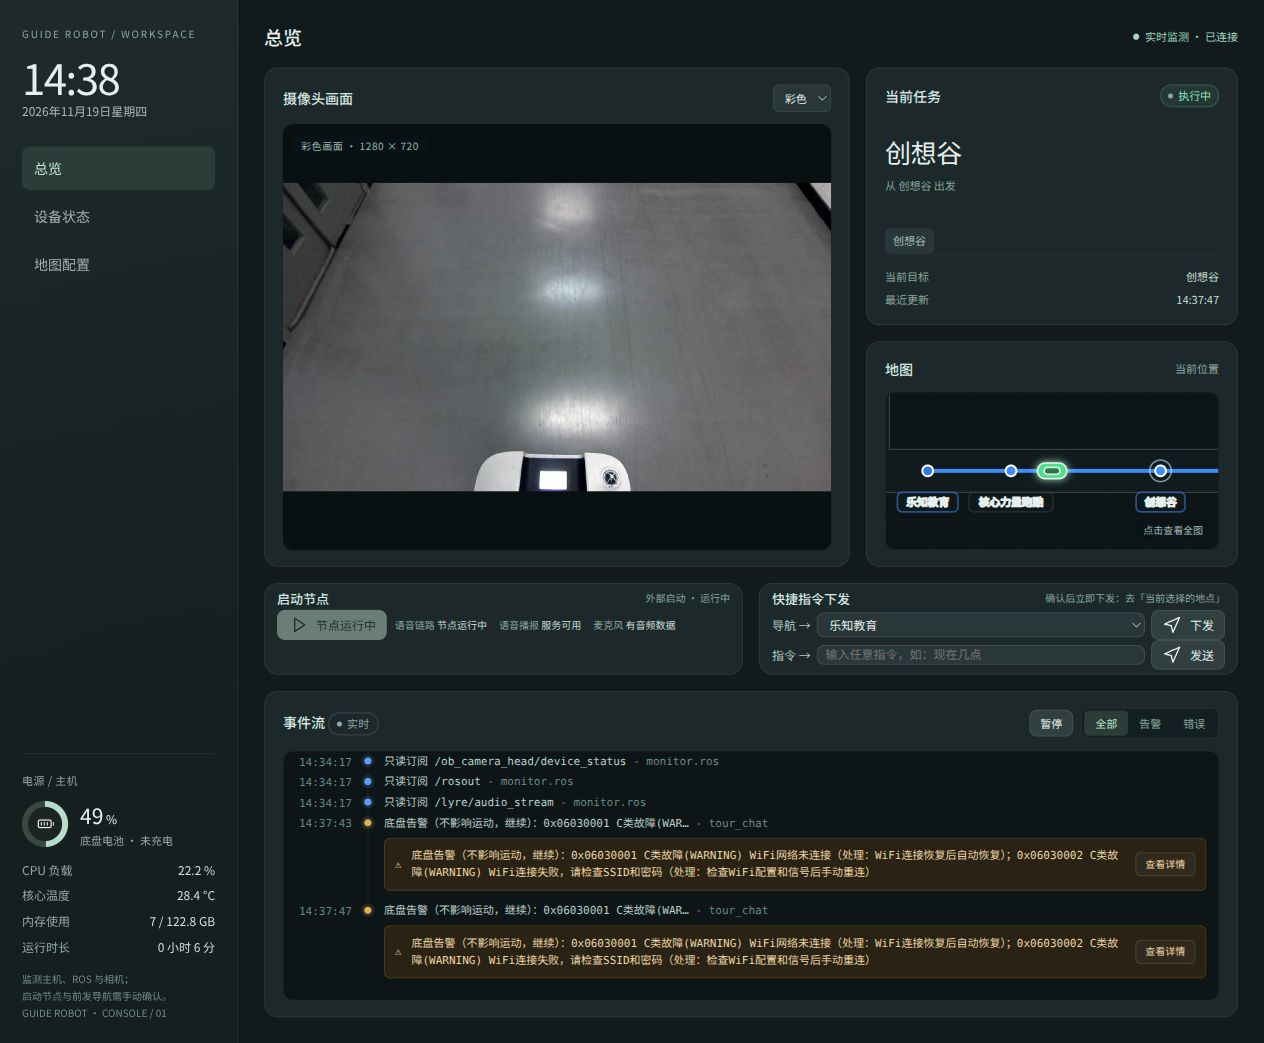
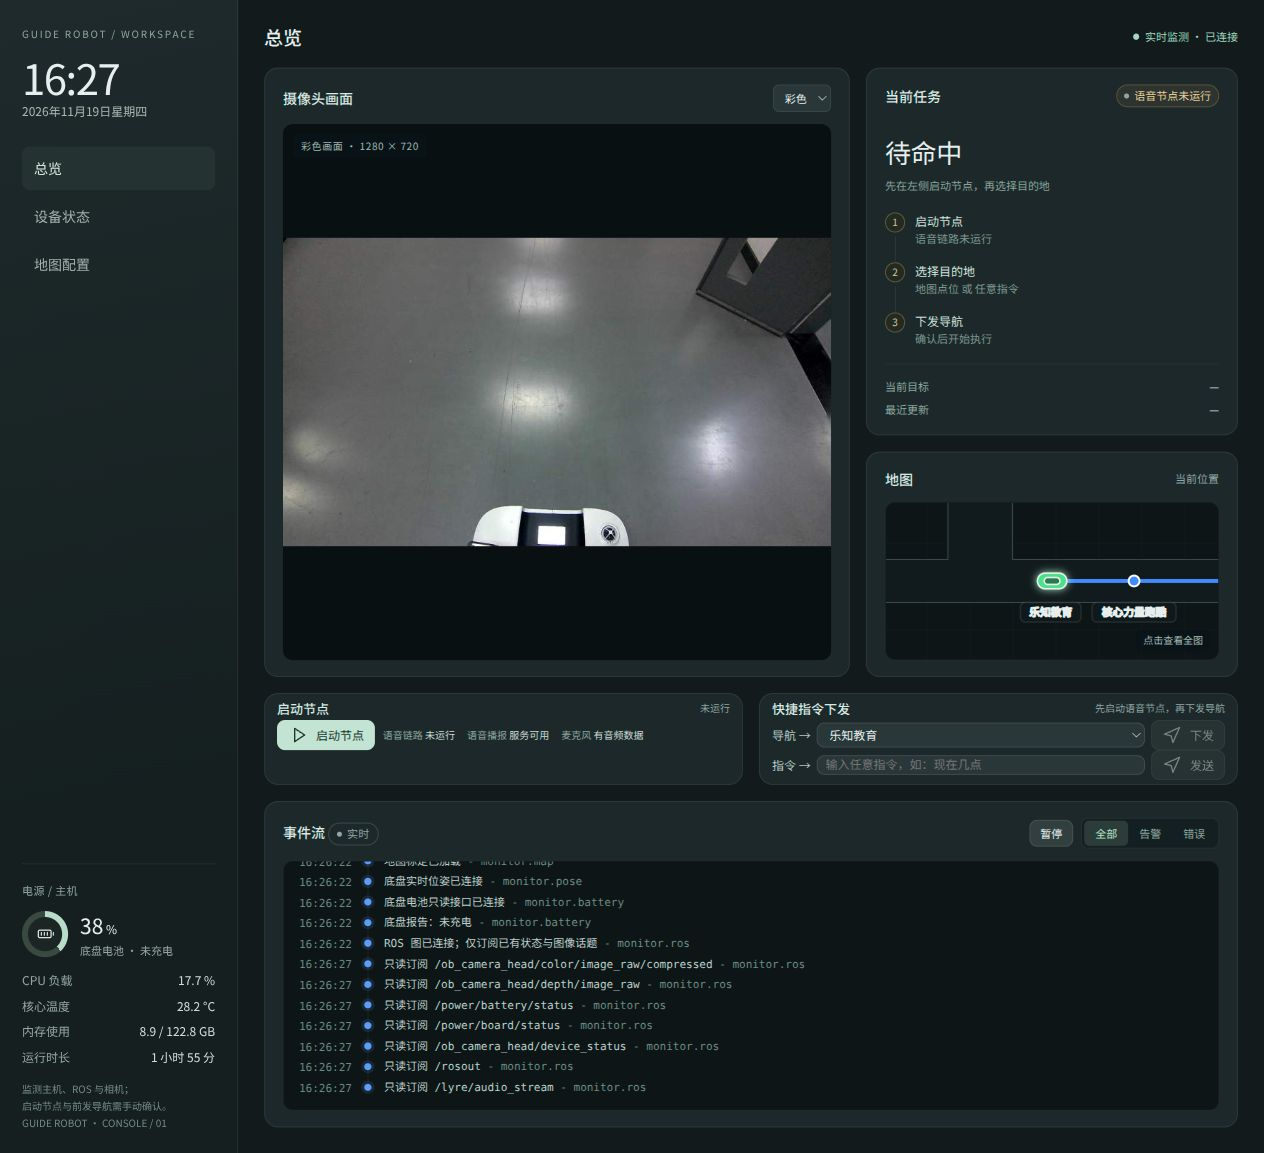
docs: 补充工作台各页面实机截图与功能说明

diff --git a/README.md b/README.md
@@ -212,9 +212,39 @@ ros2 launch learn3_d tour.launch.py \
 
 ## 网页工作台
 
-![小静带路工作台实机截图](docs/images/web-dashboard.jpg)
+工作台将相机、任务、硬件状态与地点信息集中在三个页面中。以下截图均于 **2026 年 11 月 19 日连接机器人后实机采集**；截图时带路语音节点未启动，展示的是监测状态。
 
-截图来自连接机器人后的工作台，展示相机画面、设备数据与当时的任务信息。
+### 总览：相机画面与当前任务
+
+![总览：实机彩色相机、任务状态与事件流](docs/images/web-dashboard.jpg)
+
+- **相机画面**：查看头部相机的实时彩色图像，观察机器人前方环境。
+- **当前任务**：查看节点是否运行、当前目标及任务更新时间；右侧小地图提供当前位置入口。
+- **操作入口**：启动带路节点、选择目的地或输入文本指令；节点未启动时，导航和文本发送按钮不可用。
+- **事件流**：集中查看监测连接、话题订阅与运行日志，可按告警、错误筛选。
+
+### 设备状态：主机资源与 ROS 硬件
+
+![设备状态：主机资源、电量、ROS节点和硬件服务](docs/images/web-devices.jpg)
+
+- **主机与底盘**：展示 CPU 负载、温度、内存、电池电量与开机时长。
+- **ROS 与硬件**：展示节点及话题数量、相机更新情况、深度图中央区域距离和麦克风音频接收状态。
+- **服务状态**：区分移动底盘节点已发现、TTS 服务可用、带路语音节点是否运行，方便启动前排查。
+- **变化趋势**：通过资源曲线观察短时间内的负载变化。
+
+截图中的“服务可用”“节点已发现”表示监测到了对应接口或节点，具体带路任务状态以总览中的任务信息为准。
+
+### 地图配置：目的地与沿线位置
+
+![地图配置：实时位姿、走廊示意与带路目的地](docs/images/web-map.jpg)
+
+- **位置监测**：展示底盘上报的位姿、朝向、更新时间与定位置信度。
+- **沿线示意**：展示机器人与乐知教育、核心力量跑酷、创想谷、厕所、跆拳道馆等地点的位置关系。
+- **目的地配置**：读取 `places.yaml`，列出地点名称、底盘地图点位与配置顺序，便于核对目的地。
+
+该页面展示抽象走廊示意，机器人位置按 X 方向投影，用于观察大致进度；它不是精确导航地图，也不是底盘实际行驶轨迹。目的地顺序用于配置展示，带路任务仍按用户选择的目标执行。
+
+### 打开实时工作台
 
 **[打开实时工作台（机器人局域网）](http://192.168.21.19:8765/)** · [工作台启动与使用文档](web/README.md)
 
@@ -226,12 +256,7 @@ bash web/start_monitor.sh --port 8765
 
 电脑与机器人须处于可互通的局域网，浏览器访问 `http://<机器人IP>:8765/`；IP 变化后请更换地址。GitHub 首页提供文档、截图与视频，实时数据由机器人上的监测服务提供。
 
-- **总览**：相机、任务状态、事件流与指令入口。
-- **设备状态**：CPU、温度、内存、电量及 ROS 设备发现情况。
-- **地图配置**：地点列表和沿线运行示意；示意位置不等同于精确地图。
-- **确认操作**：启动节点、停止本页启动的节点、地点导航与文本指令。
-
-监测进程与导航节点独立。只打开监测页面不会自动启动带路任务。
+监测进程与导航节点独立。只打开监测页面不会自动启动带路任务；启动节点、停止本页启动的节点、下发导航与发送文本指令均需手动操作并确认。
 
 ## 代码入口
 
